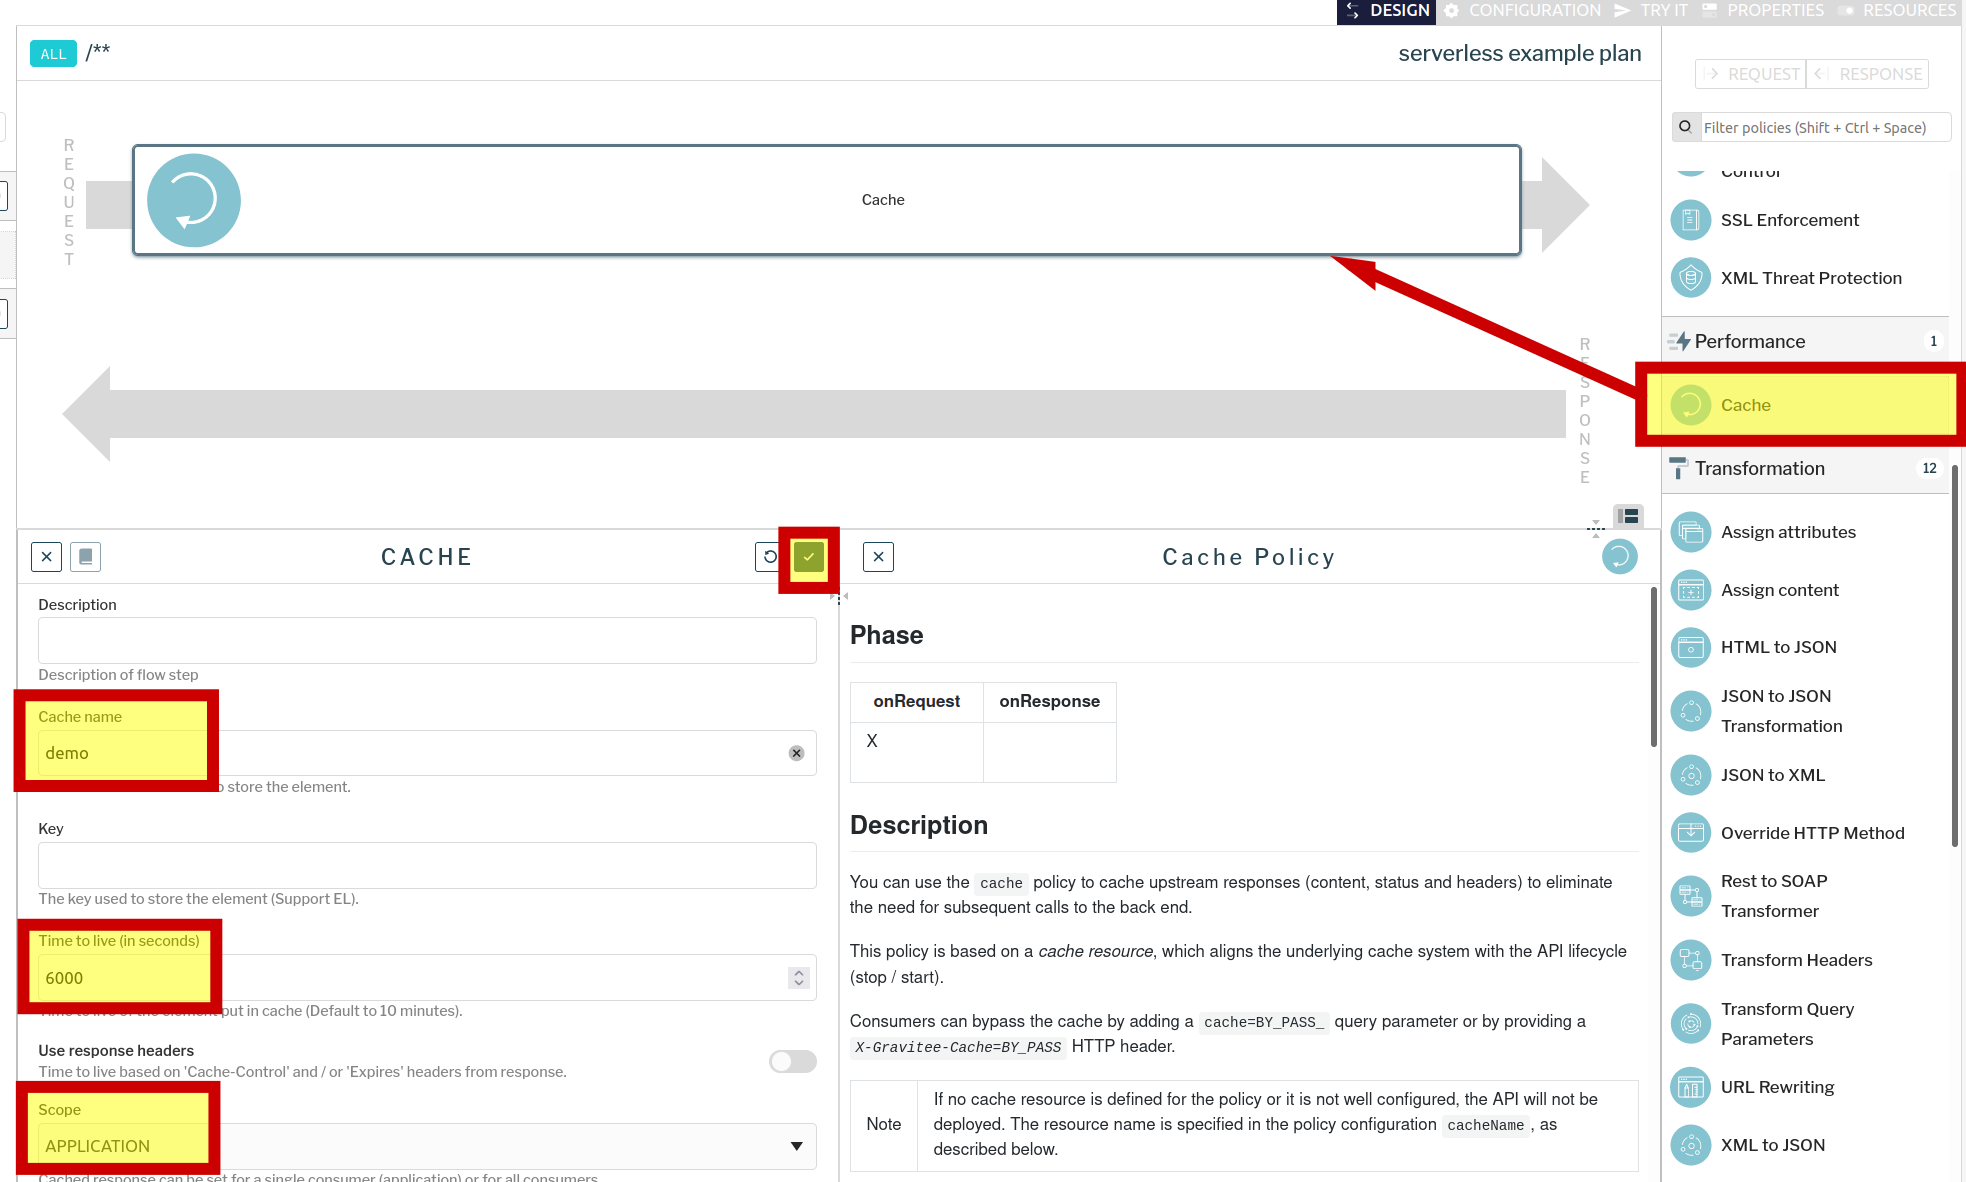
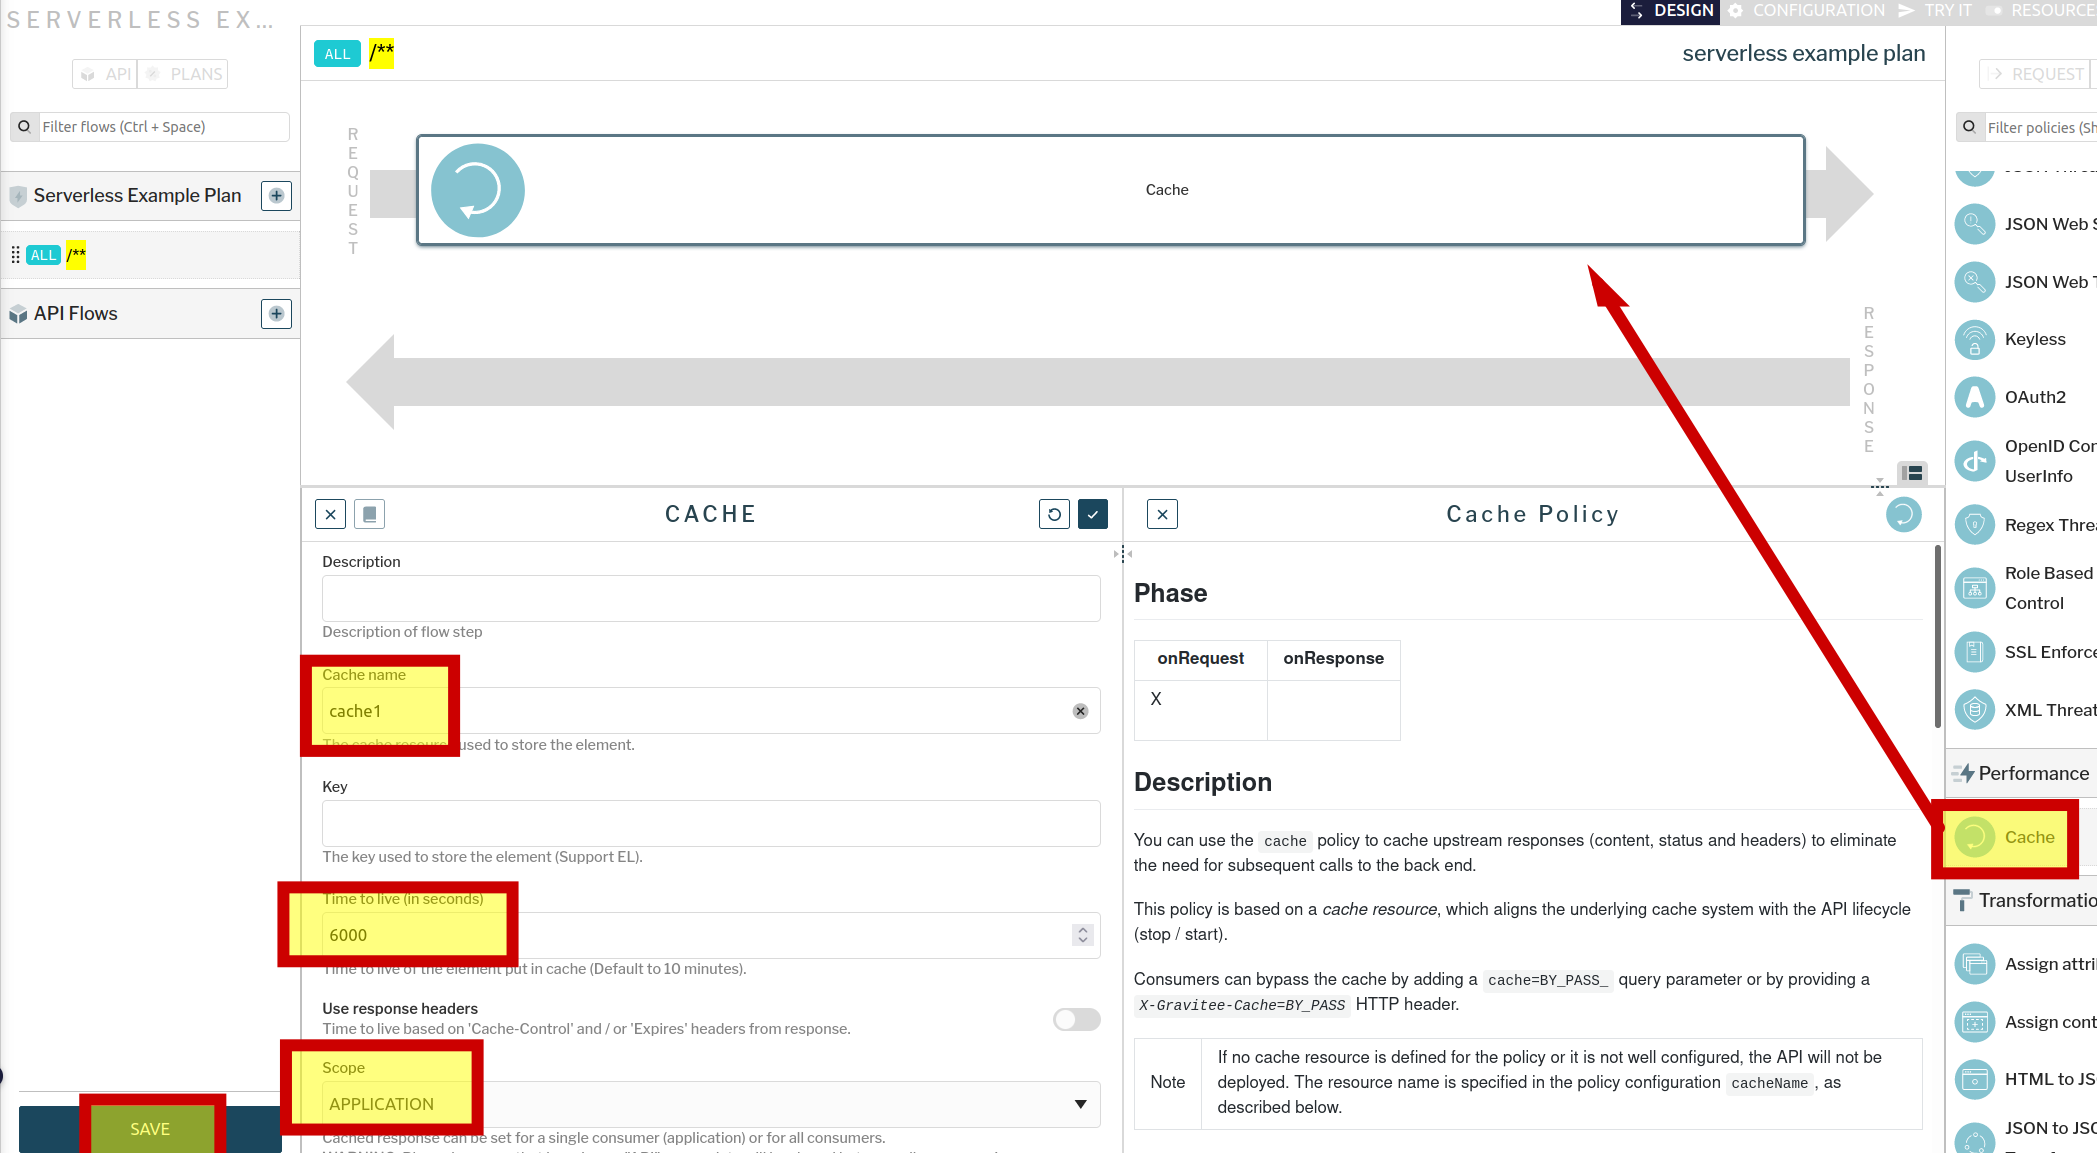
replace picture openapi6

diff --git a/openapi6/step3.md b/openapi6/step3.md
@@ -9,11 +9,11 @@ pasword: admin
 После авторизации в интерфейсе переходим на вкладку "APIs", выбираем наше апи и переходим в дизайнер.
 
 Добавляем в запрос элемент кеширования и настраиваем параметры
-* cache name: demo
+* cache name: cache1
 * Time to live: 6000
 * Scope: APPLICATION - отдельный кеш для каждого приложения (ключа доступа
 ![App_](./assets/openapi6-1.png) 
 
 Сохраняем изменения и публикуем их.
 
-Продолжаем наблюдать за счетчиком количества вызовов функции. Через некоторое время значение перестанет увеличиваться, т.к. запросы от нашего клиента попадают в кеш api gateway.
+Продолжаем наблюдать за счетчиком количества вызовов функции. Через некоторое время значение перестанет увеличиваться, т.к. запросы от нашего клиента попадают в кеш api gateway и вызова функции не происходит.
